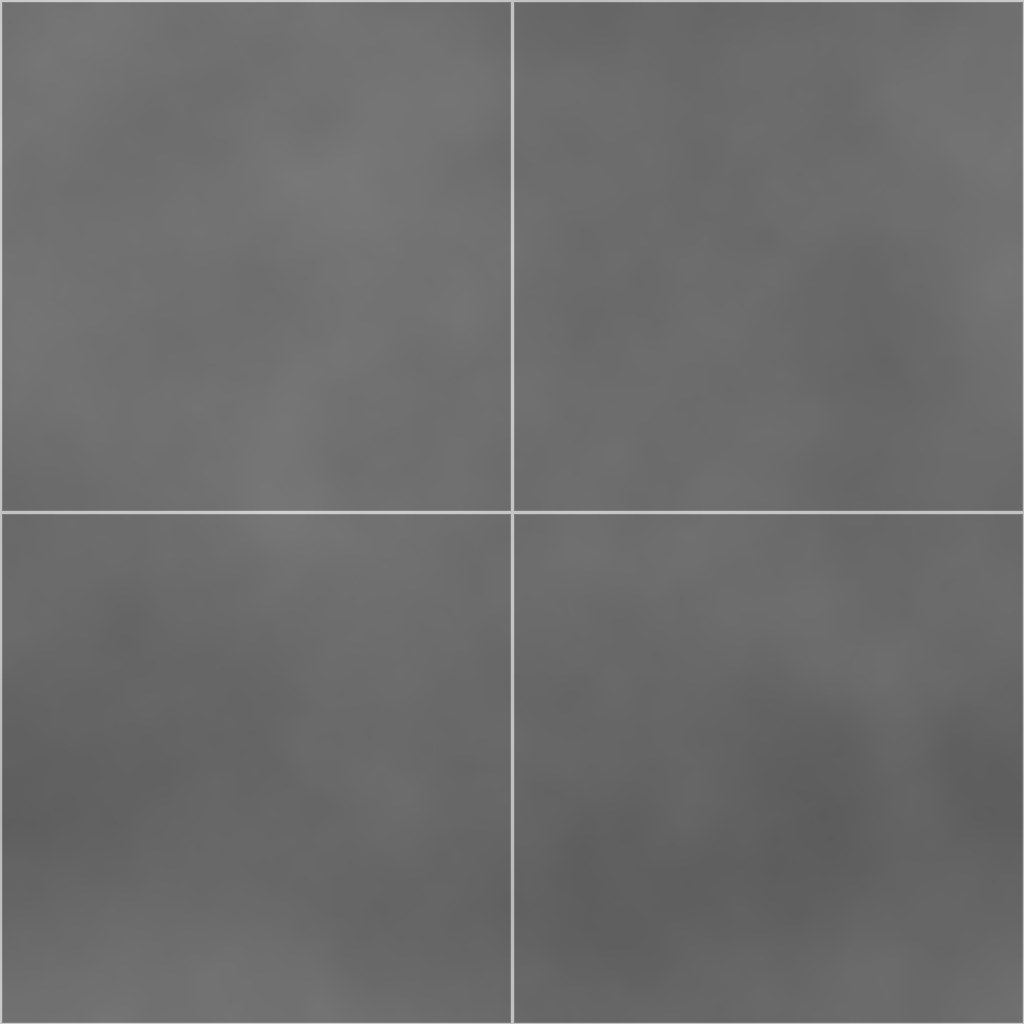
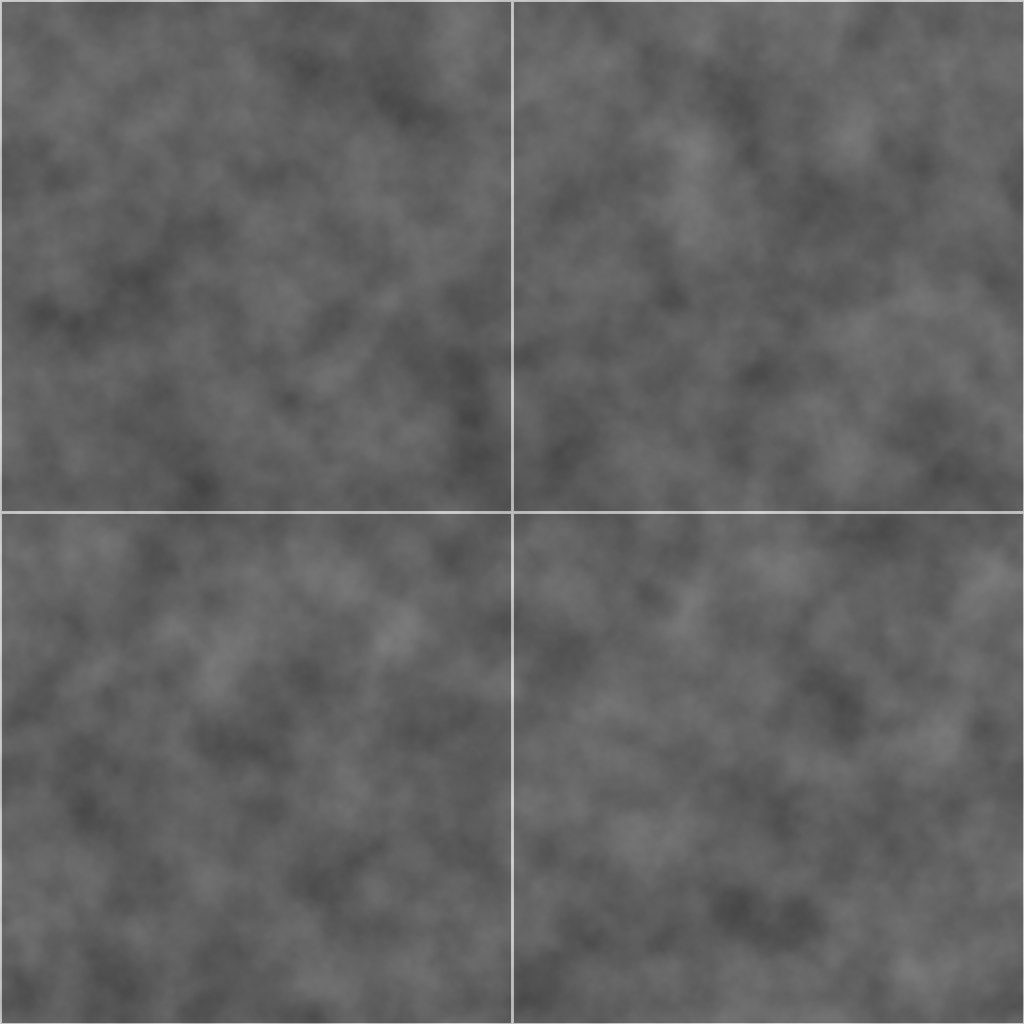
Interiores mais realistas: texturas, tecidos e detalhes de projeto
- Mármore com veios longos e naturais (piso, banheiros, mesa), porcelanato pedra nas áreas molhadas
- Madeiras com fibra vertical e variação de lâmina (carvalho, nogueira, freijó) e deck envelhecido
- Trama de tecido em roupa de cama, cortinas, almofadas e cadeiras
- Rebaixo de gesso flutuante com sanca de LED sobre a mesa de jantar
- Cortineiros embutidos no forro, cortinas até o teto
- Painel ripado na parede da cama da suíte master, pendentes de vidro nas mesas de cabeceira
- Espelhos dos banheiros com LED

Claude-Session: https://claude.ai/code/session_01DTPADc5uFJffVWZ48ekEFZ

diff --git a/index.html b/index.html
@@ -408,7 +408,7 @@ const TEX = {
    1.2
   ],
   "label": "Porcelanato acetinado",
-  "note": "Placa 60 × 60 cm"
+  "note": "Placa 60 × 60 cm, acabamento pedra"
  },
  "piso_deck": {
   "size": [
@@ -504,7 +504,7 @@ const TEX = {
    1.2
   ],
   "label": "Carvalho",
-  "note": "Lâmina para marcenaria"
+  "note": "Lâmina natural, fibra vertical"
  },
  "quartzo": {
   "size": [
@@ -545,6 +545,14 @@ const TEX = {
   ],
   "label": "Azulejo metrô",
   "note": "7,5 × 15 cm, esmaltado"
+ },
+ "tecido": {
+  "size": [
+   0.05,
+   0.05
+  ],
+  "label": "Tecido",
+  "note": "Trama de algodão"
  }
 };
 const TEXSRC = Object.assign((n, suf) => `tex/${n}_${suf}.jpg`, { plan: 'planta.webp', env: 'env/lebombo_1k_log.png', sky: 'env/ceu.jpg', m: k => `models/${k}.json` });
@@ -771,9 +779,26 @@ const F = {
   elevator: std('#9ea3a7', 0.22, 0.95),
   plate: std('#f5f4f1', 0.35), plateKey: std('#e9e7e2', 0.4),
 };
+const FABRIC = [F.fabricWhite, F.fabricGray, F.fabricBlue, F.fabricTan, F.fabricTerra, F.fabricMustard, F.fabricWine, F.fabricOat, F.fabricCharcoal, F.linenWhite];
+texSet('tecido').then(([c, n, r]) => { if (!n) return; for (const m of FABRIC) { m.normalMap = n; m.normalScale.set(0.6, 0.6); if (r) m.roughnessMap = r; m.needsUpdate = true; } dirty = true; });
+F.slot = std('#2a2826', 0.95);
 const lampShade = phys({ color: '#f6efe2', roughness: 1, sheen: 0.4, side: THREE.DoubleSide, emissive: new THREE.Color('#ffd9a1'), emissiveIntensity: 0 });
 const bulbMat = std('#fff6e5', 0.3, 0, { emissive: new THREE.Color('#ffd8a0'), emissiveIntensity: 0 });
 const globeMat = phys({ color: '#f1ece4', roughness: 0.28, clearcoat: 0.6, clearcoatRoughness: 0.15, emissive: new THREE.Color('#ffdcb0'), emissiveIntensity: 0 });
+function glowMat(w, d, pad, fall = 0.16) {
+  const R = 256, cv = document.createElement('canvas'); cv.width = cv.height = R;
+  const ctx = cv.getContext('2d'), im = ctx.createImageData(R, R), W = w + 2 * pad, D = d + 2 * pad;
+  for (let j = 0; j < R; j++) for (let i = 0; i < R; i++) {
+    const x = (i + 0.5) / R * W - W / 2, z = (j + 0.5) / R * D - D / 2;
+    const dx = Math.max(Math.abs(x) - w / 2, 0), dz = Math.max(Math.abs(z) - d / 2, 0), dist = Math.hypot(dx, dz);
+    const a = dist === 0 ? 0 : Math.exp(-dist / fall) * (1 - Math.min(1, dist / pad)) ** 0.5;
+    const k = (j * R + i) * 4; im.data[k] = im.data[k + 1] = im.data[k + 2] = Math.round(255 * a); im.data[k + 3] = 255;
+  }
+  ctx.putImageData(im, 0, 0);
+  const t = new THREE.CanvasTexture(cv); t.colorSpace = THREE.SRGBColorSpace;
+  return new THREE.MeshBasicMaterial({ map: t, color: new THREE.Color('#ffcf94'), transparent: true, opacity: 0, blending: THREE.AdditiveBlending, depthWrite: false });
+}
+const glows = [];
 const ledMat = std('#fff4e2', 0.5, 0, { emissive: new THREE.Color('#ffd9a6'), emissiveIntensity: 0 });
 const spotMat = new THREE.MeshBasicMaterial({ color: 0xd8d4cd });
 const hiddenMat = new THREE.MeshBasicMaterial({ visible: false });
@@ -829,12 +854,12 @@ const isBath = r => !!r && /^(W\.C\.|Lavabo)/.test(r.name);
 
 /* ================================================================ casa */
 const house = new THREE.Group(); scene.add(house);
-let walls = [], furns = [], floors = [], pickables = [], labels = [], ceilings = [], glassy = [], spots = null, lamps = [], shades = [], hall = null;
+let walls = [], furns = [], floors = [], pickables = [], labels = [], ceilings = [], glassy = [], spots = null, lamps = [], shades = [], hall = null, ceilFx = [];
 let footMat, scanLine, planMesh;
 function clearHouse() {
   house.traverse(o => { if (o.geometry) o.geometry.dispose(); if (o.isCSS2DObject) o.element.remove(); });
   lamps.forEach(l => scene.remove(l));
-  house.clear(); walls = []; furns = []; floors = []; pickables = []; labels = []; ceilings = []; glassy = []; lamps = []; shades = []; spots = null; hall = null;
+  house.clear(); walls = []; furns = []; floors = []; pickables = []; labels = []; ceilings = []; glassy = []; lamps = []; shades = []; spots = null; hall = null; ceilFx = [];
 }
 const planTex = loader.load(TEXSRC.plan, () => { dirty = true; });
 planTex.colorSpace = THREE.SRGBColorSpace; planTex.anisotropy = maxAniso;
@@ -1161,7 +1186,7 @@ function diningChair(fab) {
   return g;
 }
 const DS = {};
-function dside(m) { if (DS[m.uuid]) return DS[m.uuid]; const c = m.clone(); c.side = THREE.DoubleSide; finish(c); return (DS[m.uuid] = c); }
+function dside(m) { if (DS[m.uuid]) return DS[m.uuid]; const c = m.clone(); c.side = THREE.DoubleSide; finish(c); if (FABRIC.includes(m)) FABRIC.push(c); return (DS[m.uuid] = c); }
 // tecido sobre o colchão: tampo plano, borda arredondada, caimento nas laterais e no pé, com dobras suaves
 function drape(W, L, top, hang, r, seed, floorY = 0.03) {
   const q = Math.PI / 2 * r, ex = q + hang, uw = W + 2 * ex, ul = L + ex;
@@ -1276,6 +1301,7 @@ function vanity(len, dep, basins = 1, top = MAT.granito()) {
   const t = counterWithHoles(len + 0.02, dep, holes, top); t.position.y = h - 0.03; t.castShadow = t.receiveShadow = true; g.add(t);
   holes.forEach(([hx, hz, w, d]) => { basin(g, hx, h - 0.03, hz, w, d, 0.14, F.ceramic); const f = faucet(0.26, 0.14); f.position.set(hx, h, -dep / 2 + 0.06); g.add(f); });
   add(g, RB(len - 0.04, 0.85, 0.02, 0.004), F.mirror, 0, h + 0.3 + 0.425, -dep / 2 - 0.01, { shadow: false });
+  add(g, BX(len, 0.89, 0.004), ledMat, 0, h + 0.3 + 0.425, -dep / 2 - 0.022, { shadow: false, noAO: true });
   return g;
 }
 function showerGlass(lenU, hgt = 2.0) { const g = new THREE.Group(); add(g, BX(0.008, hgt, lenU), F.glass, 0, hgt / 2, 0, { shadow: false, noAO: true }); add(g, BX(0.02, 0.02, lenU), F.chrome, 0, hgt, 0); add(g, BX(0.02, hgt, 0.02), F.chrome, 0, hgt / 2, lenU / 2); return g; }
@@ -1469,7 +1495,15 @@ function furniture() {
   [[885, 165], [885, 375], [826, 210], [815, 270], [826, 330], [944, 210], [955, 270], [944, 330]].forEach(([x, y]) => place(diningChair(F.fabricWine), x, y, Math.atan2(X(885) - X(x), Z(270) - Z(y)), nd()));
   { const g = new THREE.Group();                                       // pendentes de vidro sobre a mesa
     for (const dz of [-0.55, 0, 0.55]) { add(g, CYL(0.0015, 0.0015, H - 1.85, 4), F.blackMetal, 0, 1.85 + (H - 1.85) / 2, dz, { shadow: false }); const gl = add(g, new THREE.SphereGeometry(0.13, 32, 20), globeMat, 0, 1.75, dz, { shadow: false }); gl.userData.noAO = true; add(g, CYL(0.05, 0.05, 0.03, 16), F.brass, 0, 1.88, dz); }
-    add(g, CYL(0.06, 0.06, 0.015, 20), F.blackMetal, 0, H - 0.008, 0); place(g, 885, 270, 0, nd()); }
+    add(g, CYL(0.06, 0.06, 0.015, 20), F.blackMetal, 0, H - 0.14, 0); place(g, 885, 270, 0, nd()); }
+  { // rebaixo de gesso flutuante sobre a mesa, com sanca de LED lavando o forro
+    const g = new THREE.Group(), w = 1.9, d = 2.9, t = 0.09, y0 = H - 0.13;
+    add(g, RB(w, t, d, 0.004, 1), F.ceil, 0, y0 + t / 2, 0, { shadow: false });
+    for (const [x, z, lx, lz] of [[0, d / 2 - 0.02, w - 0.04, 0.012], [0, -d / 2 + 0.02, w - 0.04, 0.012], [w / 2 - 0.02, 0, 0.012, d - 0.04], [-w / 2 + 0.02, 0, 0.012, d - 0.04]]) add(g, BX(lx, 0.008, lz), ledMat, x, y0 + t + 0.005, z, { shadow: false, noAO: true });
+    const gm = glowMat(w, d, 0.6); glows.push(gm);
+    const glow = new THREE.Mesh(new THREE.PlaneGeometry(w + 1.2, d + 1.2), gm); glow.rotation.x = Math.PI / 2; glow.position.y = H - 0.004; glow.renderOrder = 3; g.add(glow);
+    g.traverse(o => { o.userData.ceiling = true; if (o === glow) o.userData.noAO = true; });
+    g.position.set(X(885), 0, Z(270)); house.add(g); ceilFx.push(g); }
   /* ---- cozinha */
   { const g = new THREE.Group(); add(g, RB(0.72, 1.86, 0.68, 0.02, 3), F.steel, 0, 0.93, 0); add(g, BX(0.72, 0.004, 0.005), F.steelDark, 0, 1.18, 0.342); for (const y of [0.75, 1.5]) add(g, RB(0.022, 0.38, 0.03, 0.008), F.steelDark, -0.28, y, 0.36); place(g, 1054, 222, FACE.w, nd()); }
   { const g = new THREE.Group(), L = px2m(184), D = px2m(47);          // bancada lateral com cubas
@@ -1514,9 +1548,15 @@ function furniture() {
   /* ---- suíte master */
   { const g = new THREE.Group(), L = px2m(230); baseCabinets(g, L, 0.36, 0.45, MAT.marc(), 0.5); add(g, RB(L, 0.025, 0.37, 0.004), MAT.marc(), 0, 0.46, 0); add(g, RB(1.3, 0.75, 0.03, 0.006), F.blackGlass, 0, 1.3, -0.16); add(g, BX(1.27, 0.72, 0.002), F.screen, 0, 1.3, -0.144, { shadow: false }); books(g, L / 2 - 0.4, 0.475, 0, 3); place(g, 337, 751, FACE.s, nd()); }
   { const rug = new THREE.Group(); add(rug, RB(px2m(240), 0.012, px2m(133), 0.004), phys({ color: '#c99a87', roughness: 1, sheen: 0.8, sheenRoughness: 0.6, sheenColor: new THREE.Color('#f1cfc1') }), 0, 0.006, 0, { shadow: false }); place(rug, 372, 863, 0, 0.05); }
-  { const g = bed(1.93, 2.03, F.fabricGray, true, 13); add(g, slats(3.1, H - 0.01, 0.06, 0.018, 0.006), MAT.marc(), 0, (H - 0.01) / 2, -2.03 / 2 - 0.1); place(g, 371, 896, FACE.n, nd()); }
-  place(nightstand(0.5, 0.4, 0.55), 252, 963, FACE.n, nd()); place(nightstand(0.5, 0.4, 0.55), 496, 963, FACE.n, nd());
-  { const a = art(1.1, 0.7, 31, ['#ede6da', '#b25e45', '#e0c28d', '#41505b', '#97a58d']); place(a, 371, 977, FACE.n, nd()); a.position.y = 1.72; }
+  { const g = bed(1.93, 2.03, F.fabricGray, true, 13); add(g, slats(px2m(222), H - 0.01, 0.06, 0.018, 0.006), MAT.marc(), -px2m(413.5 - 371), (H - 0.01) / 2, -2.03 / 2 - 0.075); place(g, 371, 896, FACE.n, nd()); }
+  place(nightstand(0.5, 0.4, 0.55, false), 252, 963, FACE.n, nd()); place(nightstand(0.5, 0.4, 0.55, false), 496, 963, FACE.n, nd());
+  for (const x of [252, 496]) { const g = new THREE.Group(), y = 1.22;
+    add(g, CYL(0.0015, 0.0015, H - y, 4), F.blackMetal, 0, (H + y) / 2, 0, { shadow: false });
+    add(g, CYL(0.045, 0.045, 0.012, 20), F.brass, 0, H - 0.006, 0);
+    add(g, CYL(0.022, 0.03, 0.05, 16), F.brass, 0, y + 0.1, 0);
+    const gl = add(g, new THREE.SphereGeometry(0.1, 28, 18), globeMat, 0, y, 0, { shadow: false }); gl.userData.noAO = true;
+    place(g, x, 958, 0, nd()); }
+  { const a = art(1.1, 0.7, 31, ['#ede6da', '#b25e45', '#e0c28d', '#41505b', '#97a58d']); place(a, 371, 975.2, FACE.n, nd()); a.position.y = 1.72; }
   { const g = wardrobe(px2m(332), px2m(49), 2.4); place(g, 696, 832, FACE.n, nd()); }
   /* ---- suíte 2 */
   { const g = wardrobe(px2m(206), px2m(46), 2.4); place(g, 979, 522, FACE.s, nd()); }
@@ -1559,15 +1599,17 @@ function furniture() {
   { const g = toilet(); place(g, 1219, 490, FACE.w, nd()); }
   { const g = vanity(px2m(60), px2m(38)); place(g, 1130, 547, FACE.n, nd()); }
   /* ---- cortinas */
-  { const c = curtain(0.7, H - 0.08); place(c, 518 + 8, 160, FACE.e, 0.95); }
-  { const c = curtain(0.7, H - 0.08); place(c, 518 + 8, 405, FACE.e, 0.95); }
-  { const c = curtain(1.05, H - 0.08); place(c, 222 + 8, 552, FACE.e, 0.95); }
-  { const c = curtain(0.6, H - 0.08); place(c, 222 + 8, 845, FACE.e, 0.95); }
-  { const c = curtain(0.6, H - 0.08); place(c, 222 + 8, 952, FACE.e, 0.95); }
-  { const c = curtain(0.55, H - 0.08); place(c, 990, 792, FACE.n, 0.95); }
-  { const c = curtain(0.55, H - 0.08); place(c, 1058, 792, FACE.n, 0.95); }
-  // trilhos
-  [[526, 289, 'v', 330], [230, 586, 'v', 160], [230, 898, 'v', 160], [1024, 792, 'h', 120]].forEach(([x, y, o, l]) => { const g = new THREE.Group(); add(g, BX(o === 'v' ? 0.03 : px2m(l), 0.025, o === 'v' ? px2m(l) : 0.03), F.lacquer, 0, H - 0.0125, 0); place(g, x, y, 0, 0.95); });
+  { const c = curtain(0.7, H - 0.03); place(c, 518 + 8, 160, FACE.e, 0.95); }
+  { const c = curtain(0.7, H - 0.03); place(c, 518 + 8, 405, FACE.e, 0.95); }
+  { const c = curtain(1.05, H - 0.03); place(c, 222 + 8, 552, FACE.e, 0.95); }
+  { const c = curtain(0.6, H - 0.03); place(c, 222 + 8, 845, FACE.e, 0.95); }
+  { const c = curtain(0.6, H - 0.03); place(c, 222 + 8, 952, FACE.e, 0.95); }
+  { const c = curtain(0.55, H - 0.03); place(c, 990, 792, FACE.n, 0.95); }
+  { const c = curtain(0.55, H - 0.03); place(c, 1058, 792, FACE.n, 0.95); }
+  // cortineiros embutidos no forro (fenda escura onde a cortina some)
+  [[526, 289, 'v', 330], [230, 586, 'v', 160], [230, 898, 'v', 160], [1024, 792, 'h', 120]].forEach(([x, y, o, l]) => {
+    const g = new THREE.Group(); add(g, BX(o === 'v' ? 0.14 : px2m(l), 0.012, o === 'v' ? px2m(l) : 0.14), F.slot, 0, H - 0.005, 0, { shadow: false });
+    g.traverse(q => { q.userData.ceiling = true; }); g.position.set(X(x), 0, Z(y)); house.add(g); ceilFx.push(g); });
 }
 
 /* ================================================================ áreas */
@@ -1712,7 +1754,8 @@ function frame(now) {
     const ins = b * (1 - EX.dh), inside = ins > 0.6, lk = sstep(0.45, 1, ins);
     for (const c of ceilings) { c.castShadow = inside; c.visible = S.rise > 0.95; }
     for (const l of lamps) l.intensity = LAMP_K * l.userData.k * lk;
-    lampShade.emissiveIntensity = 1.2 * lk; bulbMat.emissiveIntensity = 5 * lk; ledMat.emissiveIntensity = 3.2 * lk; globeMat.emissiveIntensity = 0.75 * lk;
+    lampShade.emissiveIntensity = 1.2 * lk; bulbMat.emissiveIntensity = 5 * lk; ledMat.emissiveIntensity = 3.2 * lk; globeMat.emissiveIntensity = 0.75 * lk; for (const gm of glows) gm.opacity = 0.55 * lk;
+    { const below = camera.position.y < H - 0.02; for (const o of ceilFx) o.visible = S.rise > 0.95 && below; }
     spotMat.color.setRGB(0.85 + 2.2 * lk, 0.84 + 2.0 * lk, 0.81 + 1.7 * lk);
     if (spots) spots.visible = S.rise > 0.95 && ins > 0.3;
     hemi.intensity = HEMI0 + HEMI_IN * lk;
@@ -1837,7 +1880,7 @@ function safeSpot(p) {
   return V(q.x, EYE_V, q.z);
 }
 const angTo = (from, to) => from + Math.atan2(Math.sin(to - from), Math.cos(to - from));
-function stopMotion() { gsap.killTweensOf(EX.pos); gsap.killTweensOf(EX, 'yaw,pitch'); }
+function stopMotion() { gsap.killTweensOf(EX.pos); gsap.killTweensOf(EX, "yaw,pitch"); }
 function walkTo(p) {
   const t = safeSpot(p), d = V(t.x - EX.pos.x, 0, t.z - EX.pos.z), dist = d.length();
   if (dist < 0.08) return;
@@ -2269,7 +2312,7 @@ Promise.race([Promise.all(first), new Promise(r => setTimeout(r, 8000))]).then((
   if (REDUCED) intro.progress(1); else setTimeout(() => intro.play(), 250);
 });
 requestAnimationFrame(frame);
-window.__casa = { S, EX, VIEWS, scene, camera, intro, startVisit, exitVisit, setDoll, goView, next, prev, showHelp, hideHelp, pending: () => pending, measure, Q, gtao, hemi, sun, F, U, lamps, bloom, renderer, dirty: () => { dirty = true; shadowDirty = true; } };
+window.__casa = { ceilFx, S, EX, VIEWS, scene, camera, intro, startVisit, exitVisit, setDoll, goView, next, prev, showHelp, hideHelp, pending: () => pending, measure, Q, gtao, hemi, sun, F, U, lamps, bloom, renderer, dirty: () => { dirty = true; shadowDirty = true; } };
 
 </script>
 </body>
